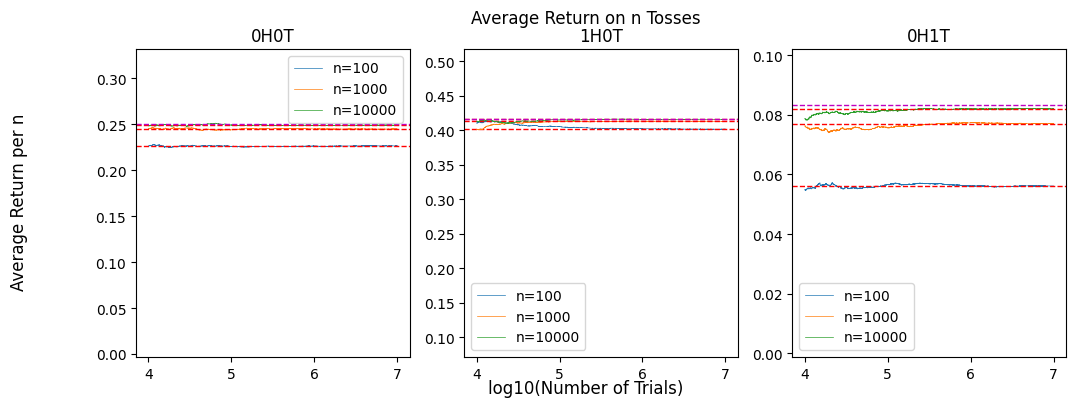
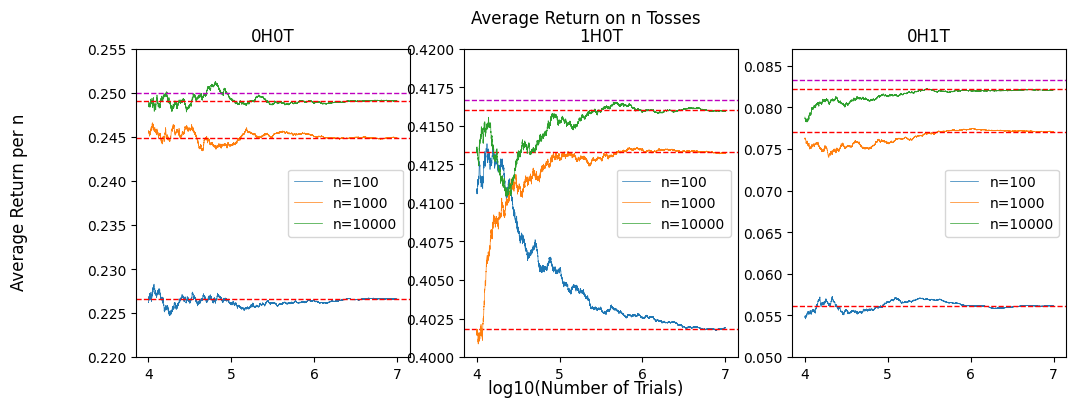
new plot

diff --git a/plot_simulaiton.py b/plot_simulaiton.py
@@ -31,7 +31,8 @@ for k in range(3):
         n = ns[j]
         d = ds[str(n)]
         avg = d/np.arange(1,d.shape[0]+1)/n
-        ax.plot(np.log10(np.arange(10001,d.shape[0]+1))[::10], avg[10000::10], linewidth=0.5, label='n={n}'.format(n=n))
+        avg = avg[10000:]
+        ax.plot(np.log10(np.arange(10001,d.shape[0]+1))[::10], avg[::10], linewidth=0.5, label='n={n}'.format(n=n))
         ax.axhline(y=avgPerN[j], color='r', linestyle='--', linewidth=1)
         ax.set_ylim((min(yRange[0],avg.min()),max(yRange[1],avg.max())))
     ax.axhline(y=avgPerN[-1], color='m', linestyle='--', linewidth=1)
